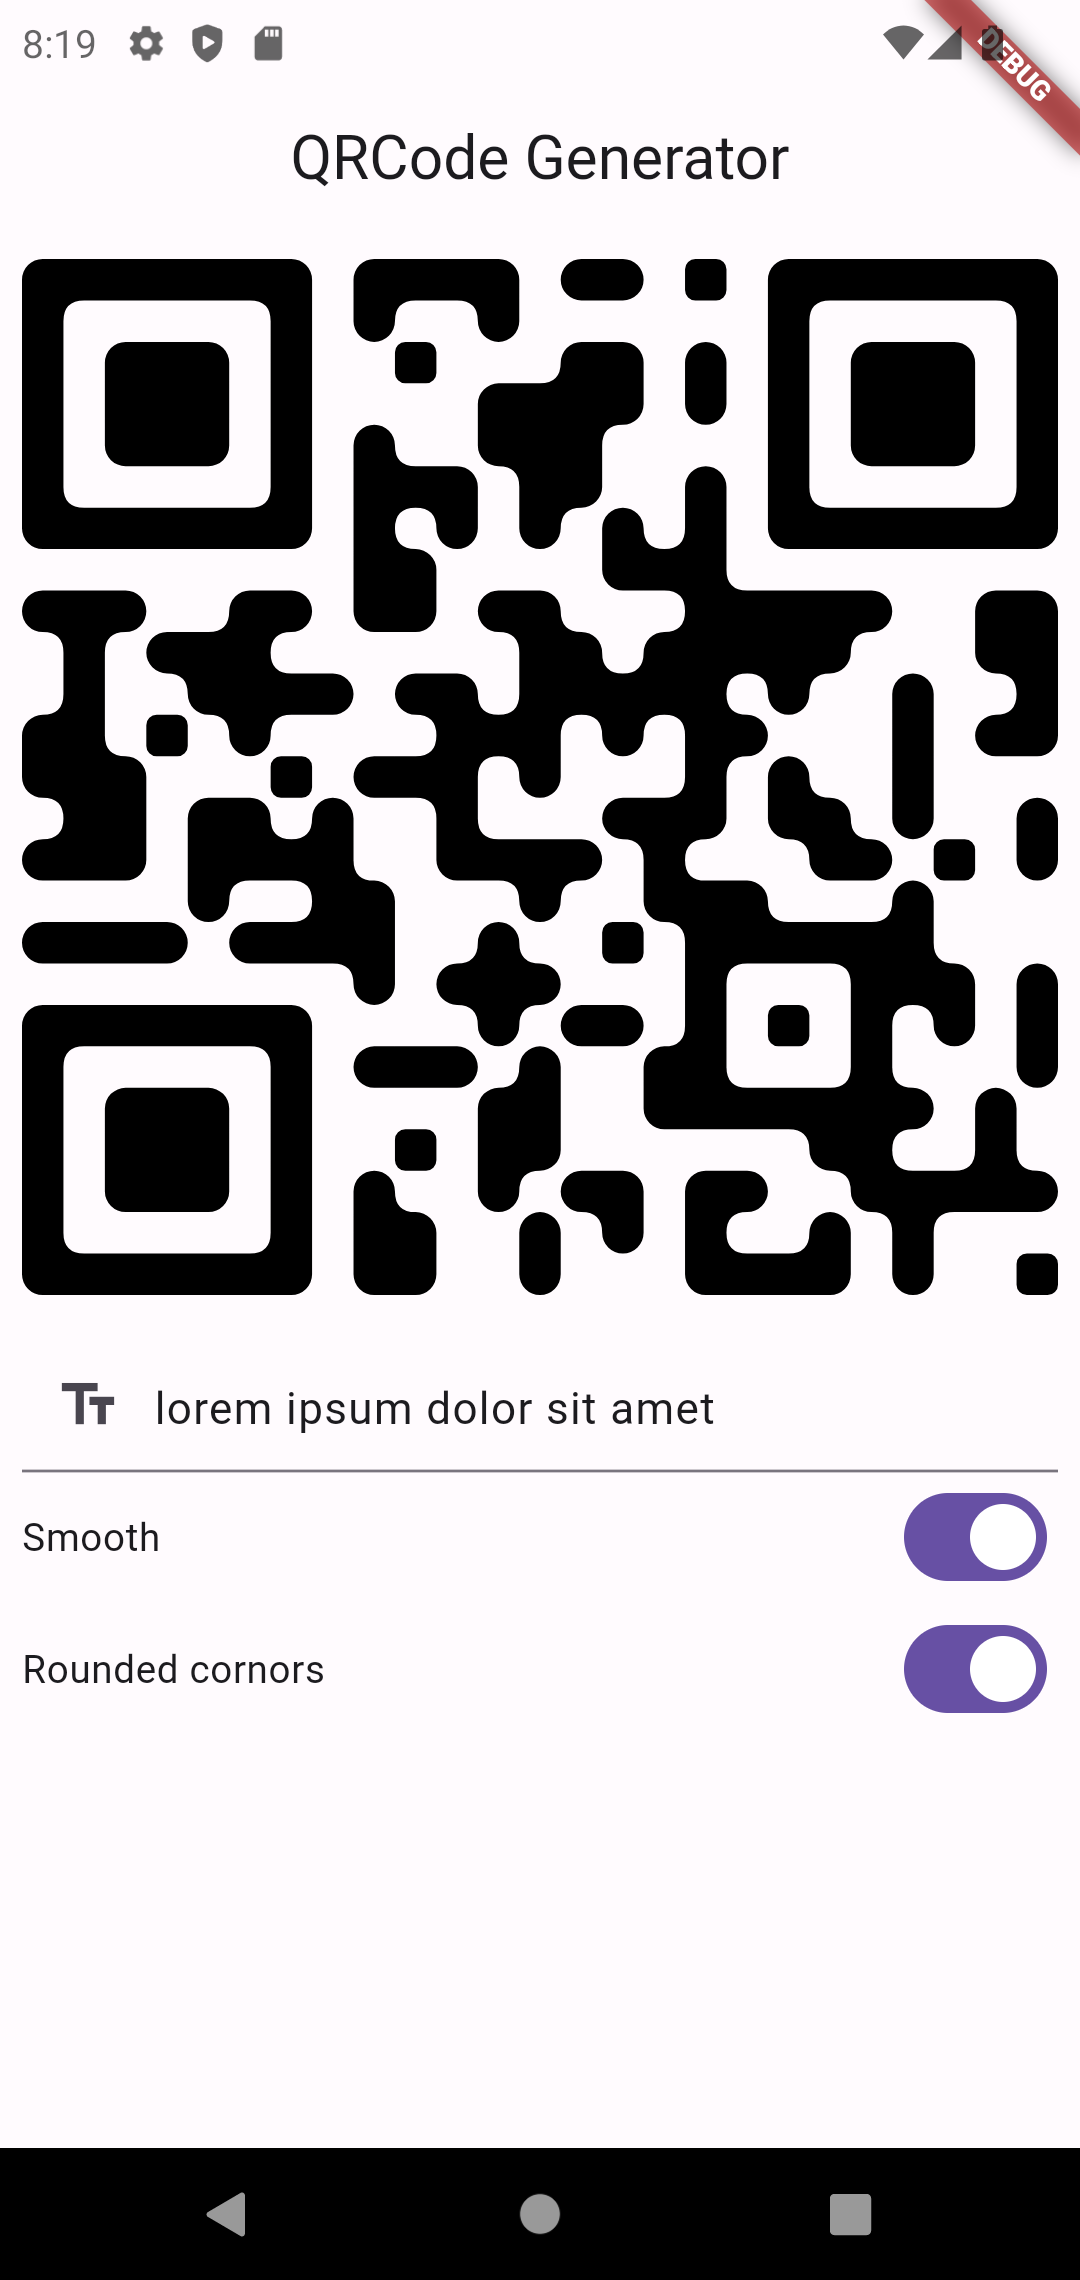
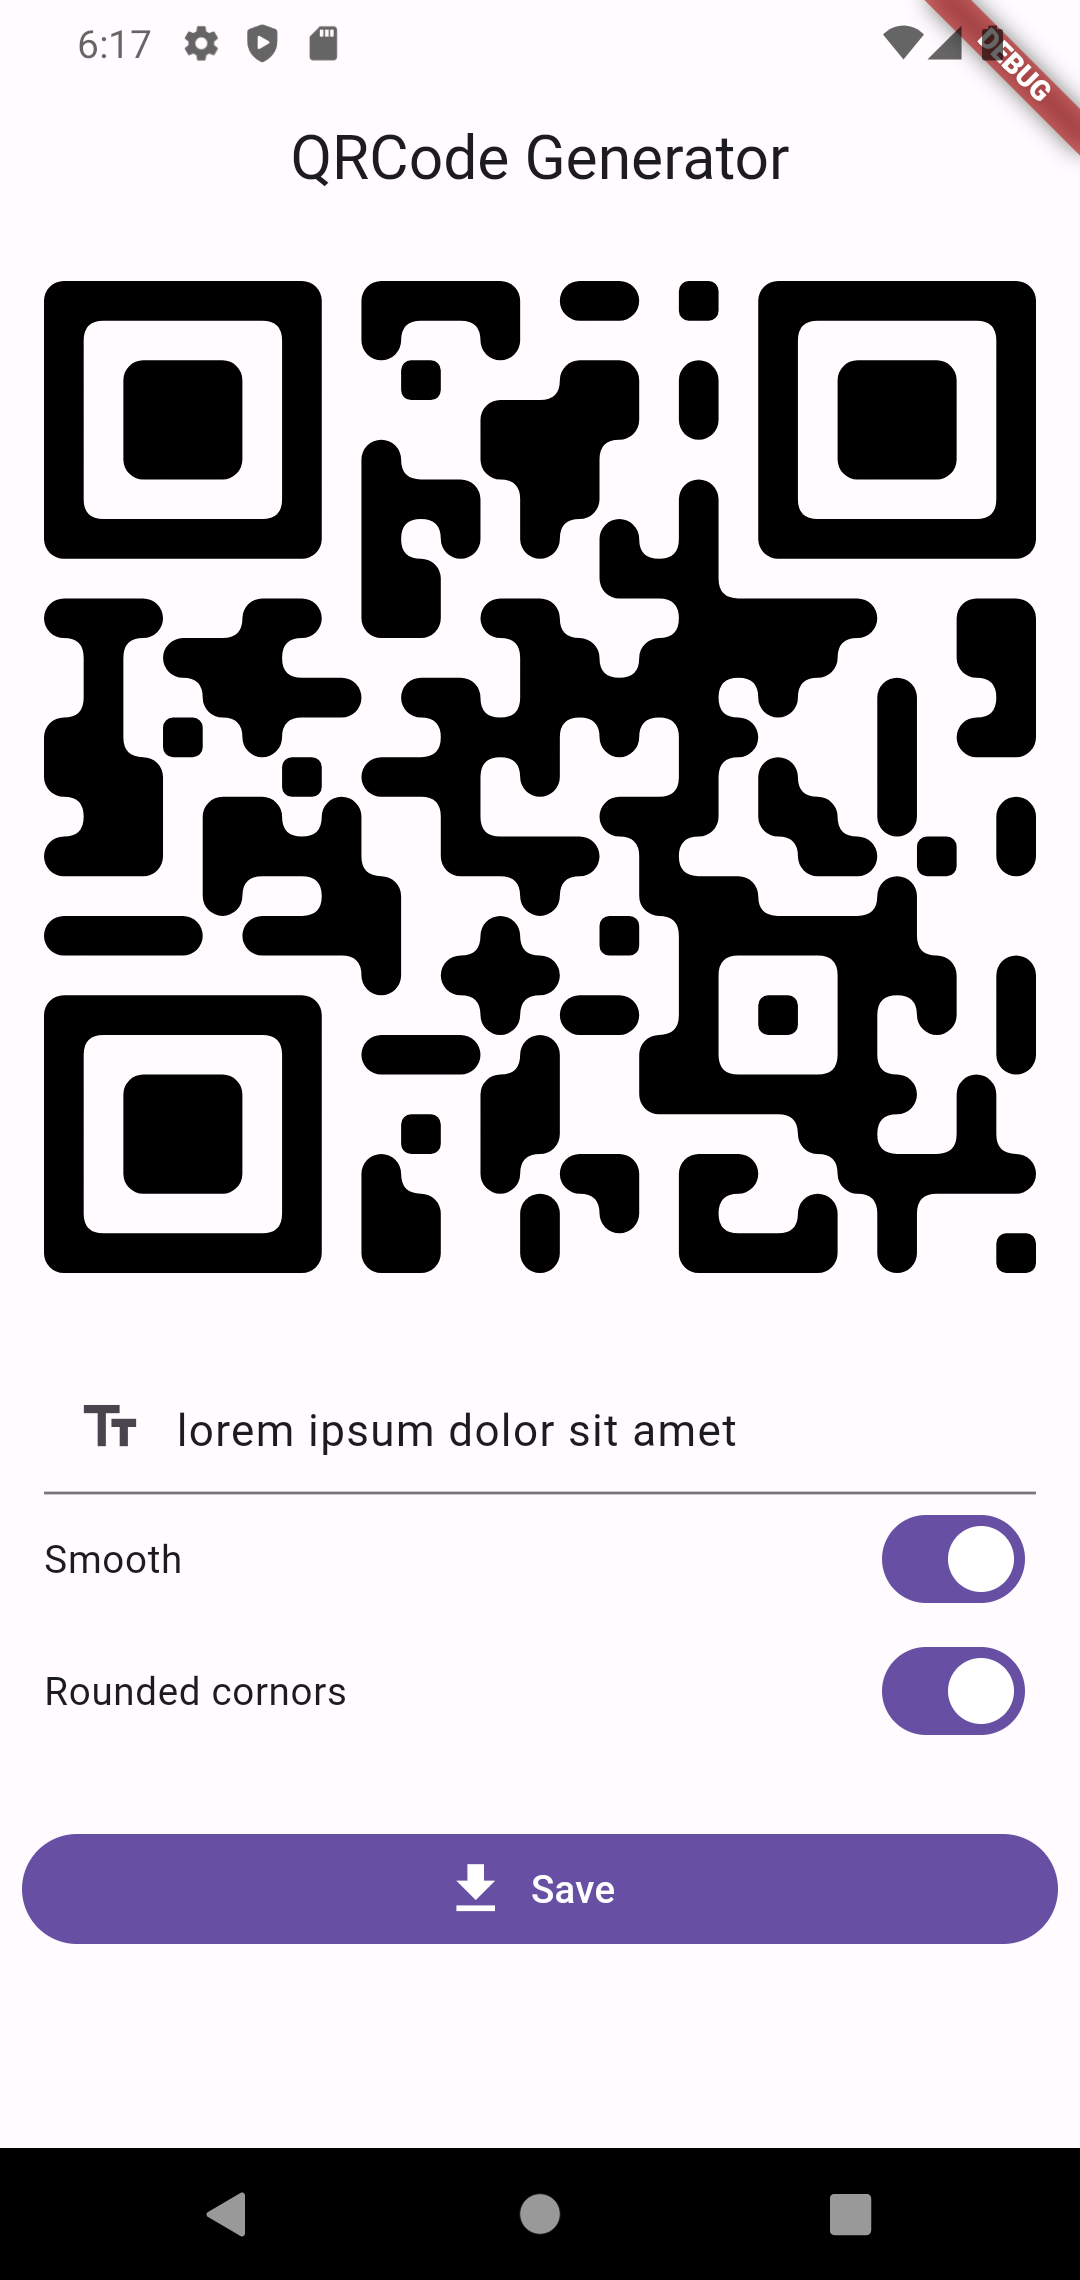
add save image to gallery

diff --git a/lib/app/modules/home/views/home_view.dart b/lib/app/modules/home/views/home_view.dart
@@ -1,6 +1,9 @@
+import 'dart:ui';
+
 import 'package:flutter/material.dart';
 
 import 'package:get/get.dart';
+import 'package:image_gallery_saver/image_gallery_saver.dart';
 import 'package:pretty_qr_code/pretty_qr_code.dart';
 
 import '../controllers/home_controller.dart';
@@ -80,6 +83,14 @@ class HomeView extends GetView<HomeController> {
               ],
             ),
           ),
+          Padding(
+            padding: const EdgeInsets.all(8.0),
+            child: FilledButton.icon(
+              onPressed: () => saveQRCode(context),
+              icon: const Icon(Icons.download),
+              label: const Text('Save'),
+            ),
+          )
         ],
       ),
     );
@@ -98,5 +109,45 @@ class HomeView extends GetView<HomeController> {
 
   setQrCodeStyle(bool value) {
     controller.qrcodeStyle.value = value;
+  }
+
+  saveQRCode(BuildContext context) async {
+    final qrCode = QrCode.fromData(
+      data: controller.qrcodeData.value,
+      errorCorrectLevel: QrErrorCorrectLevel.L,
+    );
+
+    final qrImage = QrImage(qrCode);
+    final qrImageBytes = await qrImage.toImageAsBytes(
+      format: ImageByteFormat.png,
+      size: 1024,
+      decoration: (controller.qrcodeStyle.value)
+          ? const PrettyQrDecoration(
+              background: Colors.white,
+            )
+          : PrettyQrDecoration(
+              background: Colors.white,
+              shape: (controller.qrcodeRounded.value)
+                  ? const PrettyQrRoundedSymbol()
+                  : const PrettyQrRoundedSymbol(
+                      borderRadius: BorderRadius.zero,
+                    ),
+            ),
+    );
+
+    final buffer = qrImageBytes!.buffer;
+
+    await ImageGallerySaver.saveImage(
+      buffer.asUint8List(
+        qrImageBytes.offsetInBytes,
+        qrImageBytes.lengthInBytes,
+      ),
+    );
+
+    ScaffoldMessenger.of(context).showSnackBar(
+      const SnackBar(
+        content: Text('Save image to gallery'),
+      ),
+    );
   }
 }

diff --git a/README.md b/README.md
@@ -4,8 +4,12 @@ A QR Code generator
 
 Feature
 
-- Generate QRCode
-- QRCode style
+- [x] Generate QRCode
+- [x] QRCode style
+- [x] Save image to gallery
+- [ ] Change foreground and background color
+- [ ] Add center image
+- [ ] More QRCode types
 
 Screenshots
 
